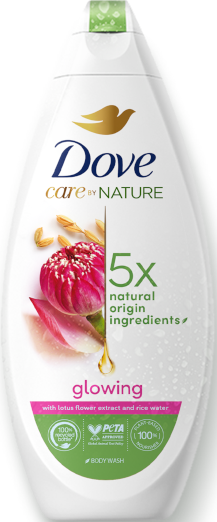
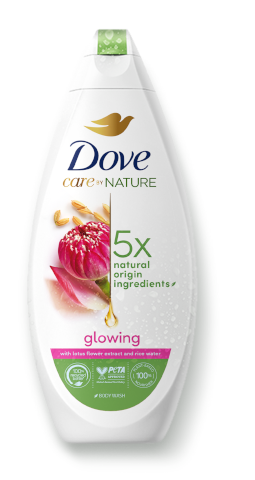
26_03_2023 koniec

diff --git a/8720181180330/css/8720181180330.css b/8720181180330/css/8720181180330.css
@@ -1,0 +1,191 @@
+.calosc {
+  display: block;
+  margin: 0;
+  padding: 0;
+  font-size: 18px;
+  text-decoration: solid;
+  max-width: 1000px;
+  min-height: max-content;
+  margin-left: auto;
+  margin-right: auto;
+}
+
+.gora {
+  background-color: #cfe3db;
+  background-image: url(/8720181180330/img/tlo1.png);
+  background-size: 100%;
+  background-repeat: no-repeat;
+  height: 600px;
+  min-height: 450px;
+  margin-left: 15px;
+  margin-right: 15px;
+  font-family: system-ui, -apple-system, BlinkMacSystemFont, "Segoe UI", Roboto,
+    Oxygen, Ubuntu, Cantarell, "Open Sans", "Helvetica Neue", sans-serif;
+}
+
+.gora--butelka {
+  padding-top: 5%;
+  object-fit: contain;
+  max-height: 45%;
+  text-align: center;
+}
+.gora__logo {
+  padding-top: 15%;
+  text-align: center;
+}
+
+.gora__tekst1 {
+  padding-top: 2rem;
+  font-size: 30px;
+  color: #62a34a;
+  font-weight: 600;
+}
+
+.gora__tekst2 {
+  color: #446e23;
+  font-size: 30px;
+  font-weight: 900;
+  padding-bottom: 1rem;
+}
+
+.gora__tekst3 {
+  padding-top: 2rem;
+  color: #446e23;
+  font-size: 25px;
+  font-weight: 600;
+}
+
+.lab {
+  background-color: #cfe3db;
+  background-image: url(/8720181180330/img/tlo2.png);
+  background-size: 100%;
+  background-repeat: no-repeat;
+  background-position: 0% 100%;
+  margin-bottom: 1px;
+  height: 600px;
+  min-height: 200px;
+  margin-left: 15px;
+  margin-right: 15px;
+  font-family: system-ui, -apple-system, BlinkMacSystemFont, "Segoe UI", Roboto,
+    Oxygen, Ubuntu, Cantarell, "Open Sans", "Helvetica Neue", sans-serif;
+}
+
+.lab__logo {
+  padding-top: 10%;
+  text-align: center;
+}
+
+.lab__tekst1 {
+  padding-top: 3rem;
+  color: #446e23;
+  font-size: 30px;
+  font-weight: 900;
+}
+
+.lab__tekst2 {
+  padding-top: 3rem;
+  color: #62a34a;
+  font-weight: 600;
+}
+
+.opis {
+  text-align: center;
+  padding-left: 6%;
+  padding-right: 6%;
+  font-weight: 600;
+  font-family: system-ui, -apple-system, BlinkMacSystemFont, "Segoe UI", Roboto,
+    Oxygen, Ubuntu, Cantarell, "Open Sans", "Helvetica Neue", sans-serif;
+}
+
+.kwadraty {
+  display: block;
+  font-size: 18px;
+  text-decoration: double, solid;
+  padding-top: 2rem;
+  text-align: center;
+  margin-left: 15px;
+  margin-right: 15px;
+  font-family: Arial, Helvetica, sans-serif;
+}
+
+.kwadraty__obrazy {
+  background-size: contain;
+  background-position: center;
+  background-repeat: no-repeat;
+  min-width: 220px;
+  min-height: 220px;
+}
+.kwadraty__obrazy--kwadrat1 {
+  background-image: url(/8720181180330/img/kwadrat1.png);
+}
+.kwadraty__obrazy--kwadrat2 {
+  background-image: url(/8720181180330/img/kwadrat2.png);
+}
+.kwadraty__obrazy--kwadrat3 {
+  background-image: url(/8720181180330/img/kwadrat3.png);
+}
+.kwadraty__obrazy--kwadrat4 {
+  background-image: url(/8720181180330/img/kwadrat4.png);
+}
+
+.kwadraty__naglowek {
+  padding-top: 1em;
+  padding-bottom: 1em;
+  font-family: Arial, Helvetica, sans-serif;
+  font-weight: 900;
+}
+
+.kwadraty__tekst {
+  font-family: Arial, Helvetica, sans-serif;
+  font-size: 16px;
+  font-weight: 600;
+  padding-bottom: 1em;
+}
+.butelki__tlo {
+  background: linear-gradient(#fff 1%, #c0c0c0 50%);
+}
+
+.butelki {
+  background-image: url(/8720181180330/img/tlo4b.png),
+    url(/8720181180330/img/tlo3a.png);
+  background-size: 100%;
+  background-repeat: no-repeat;
+  height: 1280px;
+  min-height: fit-content;
+  padding-bottom: 0px;
+  margin-bottom: 0px;
+}
+
+.butelki__dol {
+  padding-top: 60%;
+  max-height: 900px;
+  min-height: 900px;
+  height: 61vh;
+  text-align: center;
+}
+
+.butelki__dol--naglowek {
+  padding-top: 60px;
+  color: #446e23;
+  font-size: 32px;
+  font-weight: 900;
+  padding-left: 3rem;
+  padding-right: 20px;
+}
+
+.butelki__dol--punkty {
+  color: #62a34a;
+  font-size: 22px;
+  font-weight: 900;
+  text-align: left;
+  margin-left: 2rem;
+  margin-right: 4rem;
+}
+
+.butelki__dol--punkty--odstepy {
+  padding-bottom: 1.5rem;
+}
+
+.butelki__dol--tresc {
+  font-weight: 400;
+}

diff --git a/8720181180330.html b/8720181180330.html
@@ -11,27 +11,27 @@
       rel="stylesheet"
       href="https://maxcdn.bootstrapcdn.com/bootstrap/3.3.4/css/bootstrap.min.css"
     />
-    <link rel="stylesheet" href="./8720181222443/css/8720181222443.css" />
+    <link rel="stylesheet" href="./8720181180330/css/8720181180330.css" />
     <div class="calosc">
       <div class="gora">
         <div class="col-lg-1 col-md-1 col-sm-1 hidden-xs"></div>
         <div
           class="img-responsive col-lg-3 col-md-3 col-sm-4 hidden-xs gora--butelka"
         >
-          <img src="/8720181222443/img/replenishing1.png" />
+          <img src="/8720181180330/img/glowing.png" />
         </div>
         <div class="col-lg-8 col-md-8 col-sm-8 col-sm-7 col-xs-12 gora__logo">
-          <img src="/8720181222443/img/logo.png" />
+          <img src="/8720181180330/img/logo.png" />
           <div class="gora__tekst1">Naturalna pielęgnacja</div>
           <div class="gora__tekst2">92% składników pochodzenia naturalnego</div>
-          <img src="/8720181222443/img/pasek.png" />
-          <div class="gora__tekst3">Dla odżywionej skóry</div>
+          <img src="/8720181180330/img/pasek.png" />
+          <div class="gora__tekst3">Dla promiennej skóry</div>
         </div>
       </div>
       <div class="lab">
         <div class="col-xl-1 col-md-1 col-sm-1 hidden-xs"></div>
         <div class="col-xl-6 col-md-7 col-sm-7 col-xs-8 lab__logo">
-          <img src="/8720181222443/img/100.png" />
+          <img src="/8720181180330/img/100.png" />
           <div class="lab__tekst1">
             Żel pod prysznic Dove Care By Nature Replenishing
           </div>
@@ -108,7 +108,7 @@
             <div class="butelki__dol--naglowek">
               Nasza mieszanka składników<br />pochodzenia naturalnego<br />
             </div>
-            <img src="/8720181222443/img/pasek.png" />
+            <img src="/8720181180330/img/pasek.png" />
             <div class="butelki__dol--punkty">
               <ol>
                 <li class="butelki__dol--punkty--odstepy">
